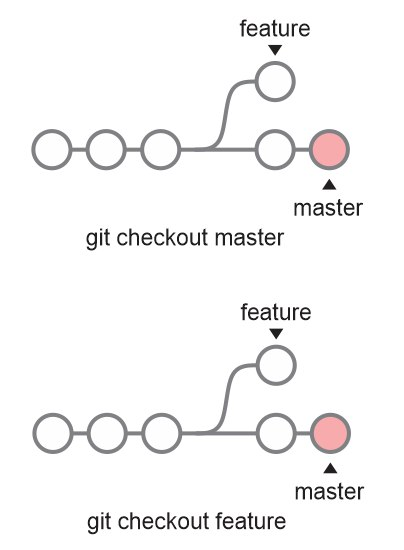
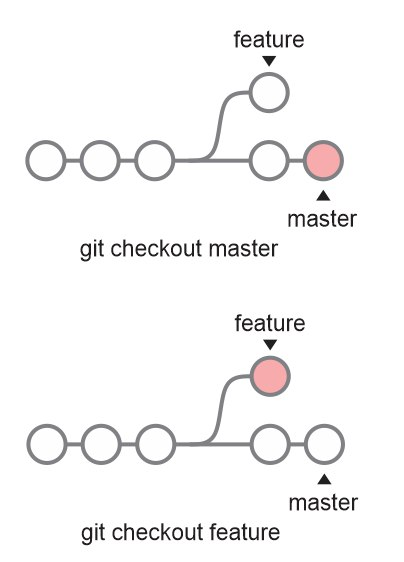
Correção da imagen de checkout e adição de comandos git

diff --git a/git.md b/git.md
@@ -14,7 +14,7 @@ Para instalação em outras distribuições Linux, consulte [https://git-scm.com
 
 #### Windows:
 
-Para instalação em sistema Windows, basta fazer o download do instalador no link [https://git-scm.com/download/win](https://git-scm.com/download/win) e seguir os passos de instalação
+Para instalação em sistema Windows, basta fazer o download do instalador no [link](https://git-scm.com/download/win) e seguir os passos de instalação
 
 #### Ferramentas de Interface Gráfica (GUI):
 Pode-se utilizar o cliente bash do git ou uma ferramenta de interface gráfica do mesmo. O endereço https://git-scm.com/downloads/guis relaciona algumas ferramentas desse tipo segundo a plataforma.
@@ -29,20 +29,48 @@ Recomenda-se o uso do próprio bash ou do [Git Kraken](https://www.gitkraken.com
     <br>
 </div>
 
-- branch
-- checkout
-- merge
-- conflitos
+- __branch__
+
+criar uma branch: `git branch <branch_name>`
+
+excluir uma branch: `git branch -d <branch_name>`
+
+- __checkout__
+
+alterne para uma branch:`git checkout <branch>`
+
+criar uma nova branch e alternar para a mesma:`git checkout -b <branch>`
+
+- __merge__
+- __conflitos__
 
 >### Staging area
 É uma área intermediária na qual os commits podem ser formatados e revisados antes de sua confirmação
-- add
-- rm
-- commit
+- __add__
+
+adicionar as modificações de um arquivo à staging area: `git add filename`
+
+adicionar todas as modificações à staging area: `git add .`
+- __rm__
+- __commit__
+
+realizar o commit das alterações na staging area: `git commit -m "message"`
 
 >### Remote Repositories
-- clone
-- fork
-- pull
-- push
-- adição de repositório remoto
+
+- __clone__
+
+Clonar um repositório cria uma cópia local de um repositório remoto
+
+clonar um repositório: `git clone repositorio.git`
+- __fork__
+
+Um fork é uma cópia de um repositório. O fork de um repositório permite que você experimente livremente alterações sem afetar o projeto original.
+- __pull__
+
+fazer o download das modificações do repositório remoto: `git pull origin <branch>`
+- __push__
+
+adicionar alterações na branch local para a branch remota: `git push origin <branch>`
+
+- __adição de repositório remoto__
